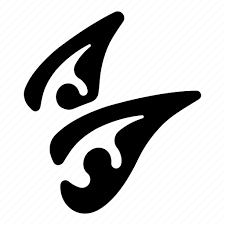
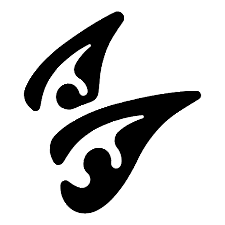
remove background from Race pics

diff --git a/src/pages/CreateChar/CreateChar.jsx b/src/pages/CreateChar/CreateChar.jsx
@@ -114,8 +114,6 @@ const CreateChar = () => {
       }
     })
   }
-
-  console.log(currentCharRace);
   
   return ( 
     <div className='charSheet'>
@@ -156,22 +154,26 @@ const CreateChar = () => {
             <h4 className='icon-container stats'>CHA: {CHA} ({table[CHA]}) Bonus:  {chaBonus ? chaBonus : 0}</h4>
           </div> 
           <div className='card'> 
-          <h2>Starting Proficiencies</h2>
+            <h2>Starting Proficiencies</h2>
             {currentCharRace.starting_proficiencies?.length ?
-              <p>
+              <div>
                 {currentCharRace.starting_proficiencies?.map((stat) => (
                   <p value={stat.name} key={stat.index}>{stat.name}</p>
-                  ))}
-              </p>
-                :
-                <p>got none</p>
-                  }    
+                ))}
+              </div>
+            :
+              <p>They got no special SKILLZ</p>
+            }    
             <h2>Sub Races</h2>
-              <p>
-              {currentCharRace.subraces?.map((stat) => (
-                <p value={stat.name} key={stat.index}>{stat.name}</p>
+              {currentCharRace.subraces?.length ?
+              <div>
+                {currentCharRace.subraces?.map((stat) => (
+                  <p value={stat.name} key={stat.index}>{stat.name}</p>
                 ))} 
-              </p>
+              </div>
+              :
+              <p>No Sub Races</p>
+              }
           </div> 
         </div>
       </div>

diff --git a/src/App.css b/src/App.css
@@ -32,7 +32,7 @@ body {
 }
 
 #classDiv {
-  background-color: rgb(255, 255, 255);
+  background-color:bisque;
   border: 1px solid black;
   width: 125px;
   display: grid;
@@ -127,7 +127,7 @@ body {
 }
 
 .title {
-  background-color: bisque;
+  background-color: #ffe3c2;
   border: 1px solid black;
   padding: 15px;
   margin: 1rem;
@@ -148,3 +148,6 @@ body {
   display: flex;
   align-items: flex;
 }
+
+
+

diff --git a/public/index.html b/public/index.html
@@ -28,7 +28,7 @@
       work correctly both with client-side routing and a non-root public URL.
       Learn how to configure a non-root public URL by running `npm run build`.
     -->
-    <title>React App</title>
+    <title>D&D Scrub Scrub Page</title>
   </head>
   <body>
     <noscript>You need to enable JavaScript to run this app.</noscript>

diff --git a/src/App.js b/src/App.js
@@ -21,6 +21,7 @@ function App() {
     {url: "/spell-search", name: "Search for Spells"},
     {url: "/create-char", name: "Create Character"},
   ])
+  
   return (
     <>
       <div className='basepic'>
